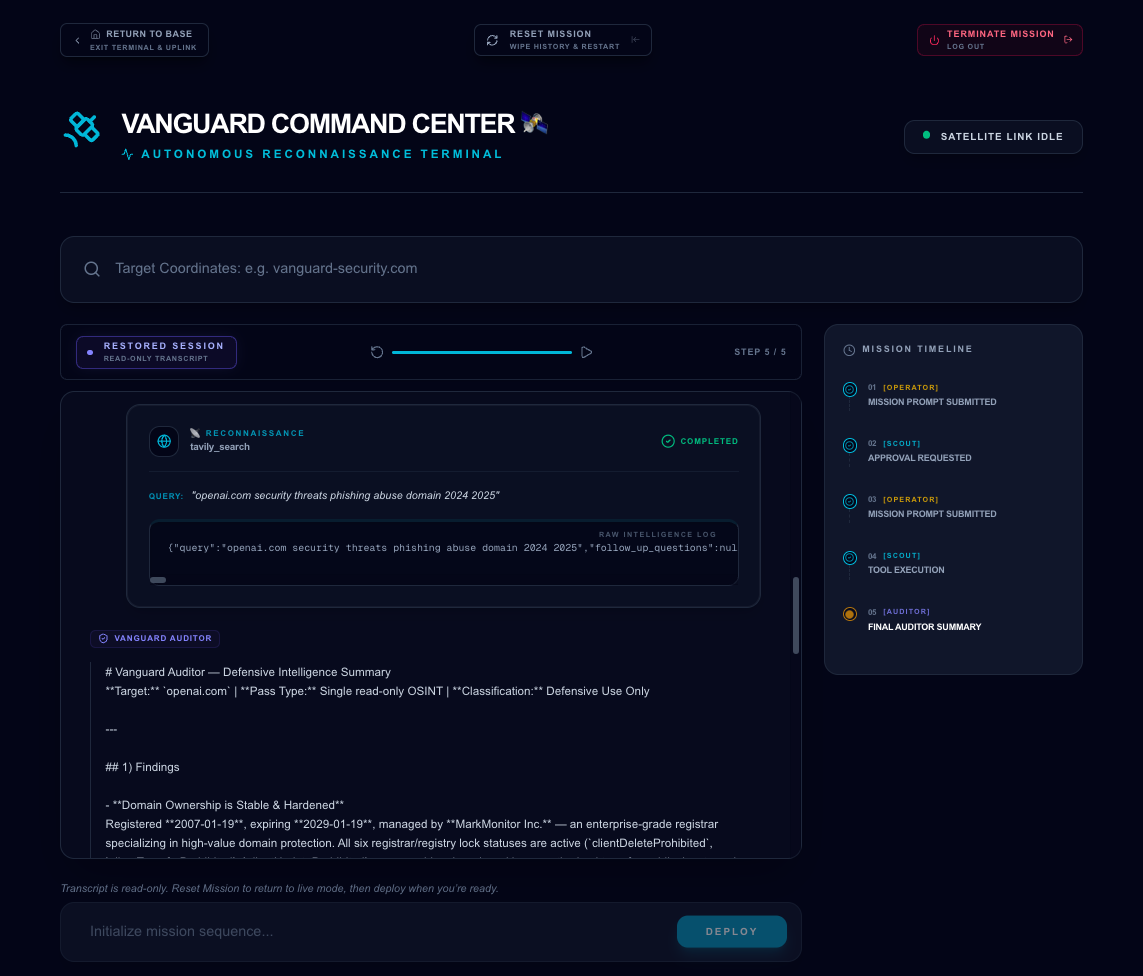
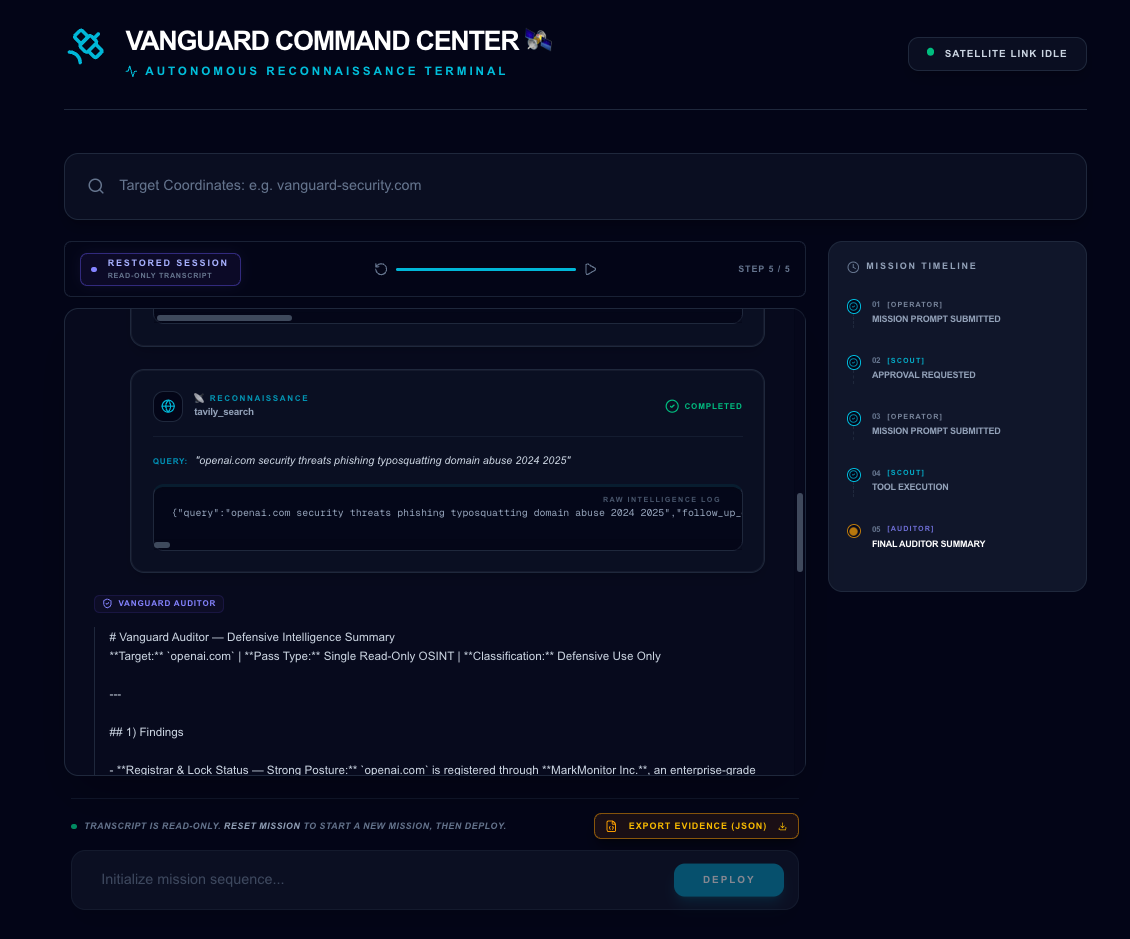
docs(readme): refresh roadmap/screens copy

diff --git a/README.md b/README.md
@@ -253,9 +253,9 @@ Use the live demo credentials below to test the full Command Center flow:
 - [x] **Operational & Governance Docs:** Runbook, security advisory, and architecture flow documentation.
 - [x] **Demo Access (Recruiter-Friendly):** Add a rotating `demo_admin` account and document public demo access workflow.
 - [x] **Mission Timeline & Replay (Command Center UI):** Compact event timeline with read-only playback.
+- [x] **Compliance Evidence Export (PDF):** Generate downloadable audit reports from trace-linked mission evidence (LangSmith + governance logs).
 - [ ] **Dependency & CVE hygiene:** Run `npm audit` (and CI scanning if desired), patch or document accepted risk for high/critical findings.
 - [ ] **Target-oriented CVE & advisory signals:** Enrich recon output with relevant public CVE/advisory context for observed stack or exposure (defensive OSINT scope).
-- [ ] **Compliance Evidence Export (PDF):** Generate downloadable audit reports from trace-linked mission evidence (LangSmith + governance logs).
 - [ ] **NIST-Aligned Governance Dashboard:** Decision integrity ledger, mission timeline replay, and traceable control evidence mapped to AI risk management and compliance oversight (`/governance`).
 - [ ] **Auth: evaluate / migrate to Clerk (optional):** Replace custom session flow with Clerk if product direction confirms; preserve roles, `/dashboard` access, middleware, and Playwright e2e bypass or Clerk test mode.
 